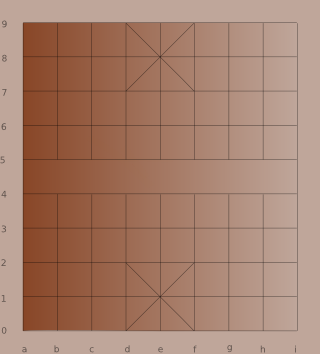
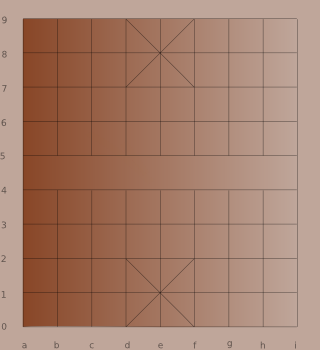
Adjust the HOXChess Board to show the [a b ...] indices at the bottom.

diff --git a/Classes/CChessGame.m b/Classes/CChessGame.m
@@ -188,7 +188,7 @@
             {
                 backgroundColor = GetCGPatternNamed(@"HOXChess.png");
                 cellSize = 34;
-                cellOffset = CGPointMake(6, 5);
+                cellOffset = CGPointMake(7, 1);
                 boardOffset = CGPointMake(2, 28);
                 break;
             }
